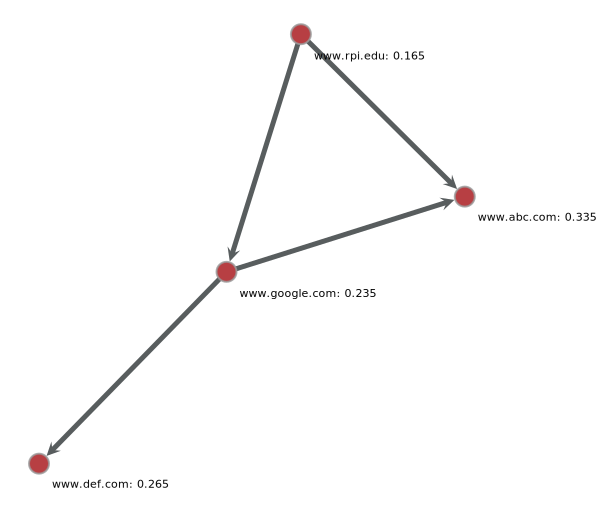
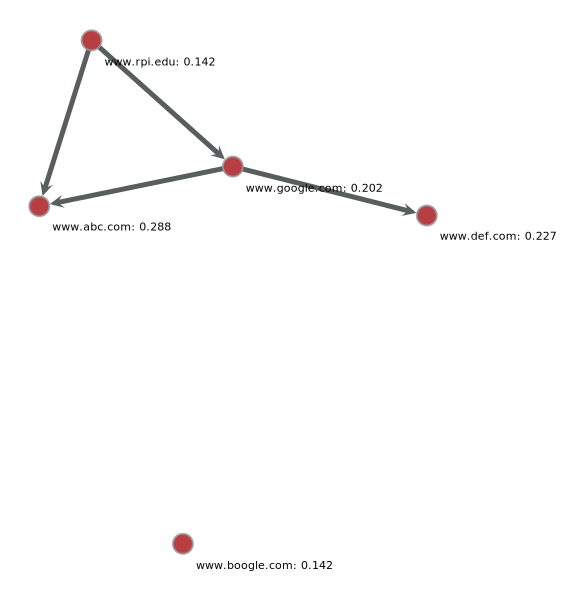
middle of the night

diff --git a/API_control/code.py b/API_control/code.py
@@ -23,27 +23,28 @@ async def return_subgraph(url):
 	return get_graph_as_json()
 
 ####################################### RANKING INTERFACE #######################################
-@app.get("/ranking/score/{url}")
+@app.get("/ranking/{url}")
 async def return_score(url):
-	if (url in graph_manip.vert_map) and (graph_manip.page_rank is not None):
-		return graph_manip.page_rank[graph_manip.vert_map[url]]
-	else:
-		return -1
+	node = graph_manip.find_in_graph(url)
+	return_json = {"pageRank": None, "inLinkCount": None, "outLinkCount": None}
+
+	if (node is not None) and (graph_manip.page_rank is not None):
+		return_json["pageRank"] = graph_manip.page_rank[node]
+		return_json["inLinkCount"] = int(graph_manip.g.get_in_degrees([node])[0])
+		return_json["outLinkCount"] = int(graph_manip.g.get_out_degrees([node])[0])
+		print(return_json)
+
+	return return_json
 ###################################### CRAWLING INTERFACE #######################################
-
-# Node Payload schema
-class node_payload:
-	url: str
-	child_nodes: list
-
 @app.post("/crawling/add_nodes")
 async def update_link_graph(node_payload):
+	print(node_payload)
 	# TODO: Write code here to pass the schema on
 	return True
 
 @app.get("/crawling/remove_node/{url}")
 async def remove_node(url):
-	return True
+	return {"node_removed": graph_manip.remove_node(url)}
 
 ##################################### EVALUATION INTERFACE ######################################
 # Schema for Evaluation Team
@@ -82,6 +83,8 @@ payload = '[{"url":"www.google.com","child_nodes":["www.abc.com","www.def.com"]}
 
 graph_manip.add_node(payload)
 
+graph_manip.add_node('{"url":"www.boogle.com"}')
+
 update_pagerank()
 
 graph_manip.graph_tool.draw.graph_draw(
@@ -119,7 +122,7 @@ graph_manip.graph_tool.draw.graph_draw(
 if graph_manip.page_rank is not None:
 	print("\nPageRank scores:")
 	for v in graph_manip.g.vertices():
-		print(f"{graph_manip.node_url[v]}: {graph_manip.page_rank[v]}, {v}")
+		print(f"{graph_manip.node_url[v]}: {graph_manip.page_rank[v]}, {graph_manip.g.get_in_degrees([v])[0]}")
 
 
 				

diff --git a/API_control/graph_manip.py b/API_control/graph_manip.py
@@ -82,6 +82,10 @@ def add_node(payload):
             parent_node = g.add_vertex()
             node_url[parent_node] = url
 
+        # case of stray node with no children
+        if not "child_nodes" in item:
+            continue
+
         # Iterate over the children and add them to the graph
         for child in item["child_nodes"]:
             assert isinstance(child, str), f"ERR: graph_manip.add_node() expected strings in `child_nodes`" 
@@ -104,14 +108,14 @@ def remove_node(url):
 
     if node != None:
         g.remove_vertex(node)
-        return 0 #success
+        return True #success
 
-    return -1 #failure
+    return False #failure
     
 # converts the graph to json
 def convert_graph_to_JSON(g):
     graph_data = {
-        "nodes": [{"id": int(v)} for v in g.vertices()],
+        "nodes": [{"id": int(v), "url": node_url[v], "page_rank": page_rank[v]} for v in g.vertices()],
         "edges": [{"source": int(e.source()), "target": int(e.target())} for e in g.edges()]
     }
 
@@ -152,5 +156,3 @@ if __name__ == '__main__':
         vertex_size=20,
         output="mygraph.png"
     )
-                
-    print("Doing good")

diff --git a/API_control/README.md b/API_control/README.md
@@ -1,0 +1,5 @@
+Features:
+
+1. Mutexes
+2. async functions
+3. JSON objects for interface.
